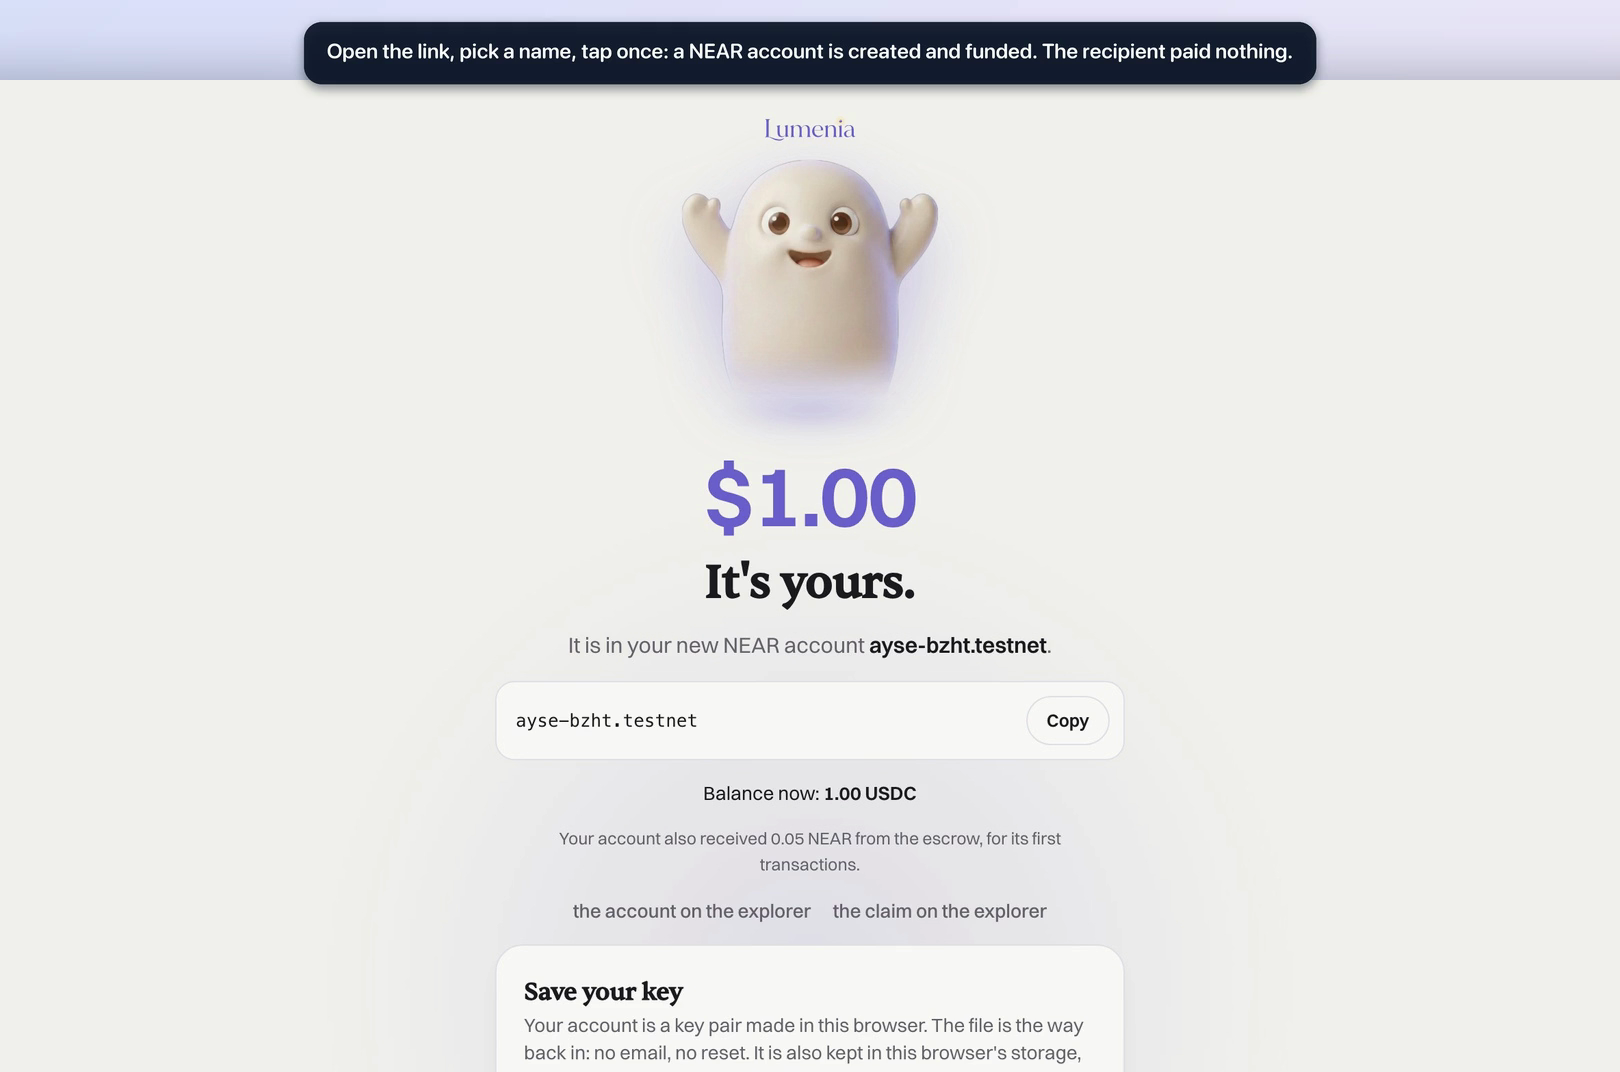
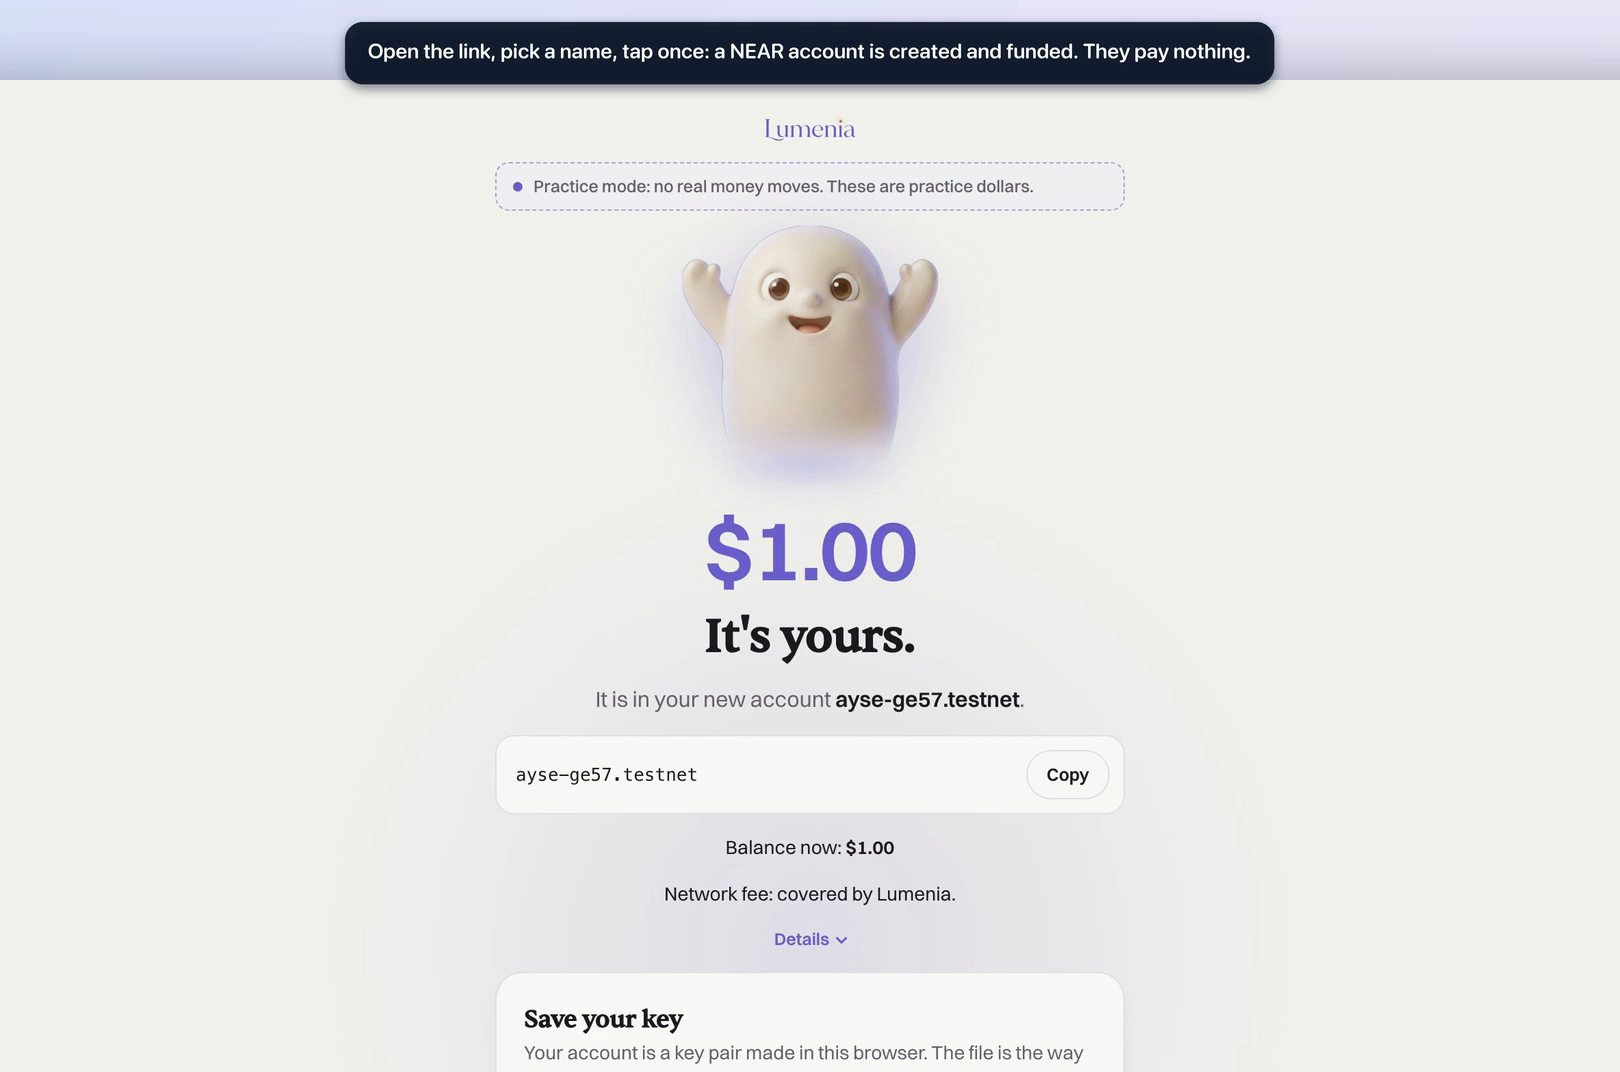
docs(near): the demo video re-shot on the live chain-neutral screens (80 s, then the attack log and the mainnet proof), its take's three transactions in the proof table, new claim and ledger stills

diff --git a/NEAR.md b/NEAR.md
@@ -1,7 +1,7 @@
 # Lumenia on NEAR: the NEAR rail, for judges and reviewers
 
 - **What:** a dollar link for someone who has nothing. At the claim the escrow creates the recipient's NEAR account, funds it with USDC and pays the fee, so the recipient pays no gas; the sender can take unclaimed money back after expiry (one tap). Built at NEAR HACKATHON 2026 (window 1 to 14 November 2026; this work: 11 to 14 November) inside [Lumenia's product repository](https://github.com/getlumenia/lumenia); only this NEAR rail is the submission.
-- **Try:** https://getlumenia.com/try/send, practice money, online through 30 November 2026; links open on [/claim](https://getlumenia.com/claim), the public ledger is [/ledger](https://getlumenia.com/ledger), the per-network table [/developers](https://getlumenia.com/developers). [Demo video](https://lumenia-media.avakit.workers.dev/demo.mp4), 60 seconds ([16:9 copy](https://lumenia-media.avakit.workers.dev/demo-720p.mp4)).
+- **Try:** https://getlumenia.com/try/send, practice money, online through 30 November 2026; links open on [/claim](https://getlumenia.com/claim), the public ledger is [/ledger](https://getlumenia.com/ledger), the per-network table [/developers](https://getlumenia.com/developers). [Demo video](https://lumenia-media.avakit.workers.dev/demo.mp4), 80 seconds: one live take on these screens, then the attack log and the mainnet proof ([16:9 copy](https://lumenia-media.avakit.workers.dev/demo-1080p.mp4)).
 - **Check:** `pnpm install --frozen-lockfile && pnpm near:verify`, no key needed (see "Run it yourself").
 - **Real:** the escrow [`lumenia-near.testnet`](https://testnet.nearblocks.io/address/lumenia-near.testnet), the screens, the relayer, the agent tools and one delivered Agent Market test job; hashes under "Proof".
 - **Testnet:** all of that, with Circle's testnet USDC. No audit is claimed.
@@ -67,14 +67,14 @@ Every path ran against `lumenia-near.testnet` with Circle's testnet USDC; open a
 
 | What | Transaction | Result |
 |---|---|---|
-| The demo video's take on the product screens: send, claim into the new account ayse-bzht.testnet, pay 0.25 USDC forward through the sponsor relayer (03:35 UTC) | AcYDkG9vYvzZLTtqTtFE3FvtFAi6hUn6NjhSNaew2ouV, 5mXtmnogZmQEP2HajYS4QWbGbg8QMUSzj9oC4pb8B3FA, 8YhoQMg6QCiTjhfrPs9b8eRGQ49XiW5CuYfvkBjMe4Ri | created with 1 USDC and 0.05 NEAR; after paying forward it holds 0.75 USDC and still 0.05 NEAR |
+| The demo video's take on the live site: a practice link made by the sponsor, claimed into the new account ayse-ge57.testnet, 0.25 USDC paid forward through the relayer (23:59 UTC) | 7EeSYWuqB8XQCsD4XpkhnRVLfLLZMHM6ccrawTKQKjf7, 6SXoxCFjfMa2V1iGd6EjSQHAsz3MD4qeKsoAdVHKThLB, rXb8FRSVzKadTsQXWmzd1D9GffXsopfGXyf6xYzSKaK | created with 1 USDC and 0.05 NEAR; after paying forward it holds 0.75 USDC and still 0.05 NEAR |
 | Contract script: create a 1 USDC link, then claim it with the link key into a fresh account | 4pV1q11f7UXLooG9cA3t1HBSFm9B4pYnUWYxr3gEgZAD, FhL77xssNU1P57uCcuC4DiDSaU17BFNUPfcceLn3dEgu | drop Open for link key ed25519:FTbxAZN3..., then account 880115ec...93a1 created with 1 USDC and 0.05 NEAR; drop Claimed |
 | Agent (MCP CLI) pays three people in one transaction | EpJn7vmaAvqexTf3JDBoGsjMbYKsyHmgs2NbFvTcAJtW | 3 links (1.00, 1.50, 1.10 USDC), one receipt each |
 | NEAR Agent Market test job 94912e5d ("For agents") | 8NXQ2YXWNTyihMueGHvbJ6ceR1Qjft8M51Ce4u2MCaHf | two Open 0.25 USDC links, funded in one transaction |
 | The relayer inside Lumenia's sponsor service, `/near/relay` (02:42 UTC) | A3jr4UJWjrNeahjYJNvX6CRbfWYw7BZTwc8Yweh2QiSm | 0.10 USDC link created; an immediate second request was refused with 429 (10-second cooldown) |
 
 <details>
-<summary>Five more rows: the web client's create and claim, an agent paying one person, the first relayed pay-forward, an earlier take of the demo video</summary>
+<summary>Six more rows: the web client's create and claim, an agent paying one person, the first relayed pay-forward, two earlier takes of the demo video</summary>
 
 | What | Transaction | Result |
 |---|---|---|
@@ -82,6 +82,7 @@ Every path ran against `lumenia-near.testnet` with Circle's testnet USDC; open a
 | Web script: claim it into a fresh account | BJEij829uNAZtaUAqa31Jc2yc7vq3oDjqaVizmnHckBH | account 2315f930...9cb7 holds 1 USDC; drop Claimed |
 | Agent (MCP CLI) pays one person, receipt written | 2bszj9H4dfsX6igqqHzgK6sPRChUXUwVkoqEiiZfDc8K | 1 USDC link, receipt rcpt_2fd21205... |
 | Pay forward through the relayer (sender signs, relayer pays the fee) | DgHQfQaxWMWzKmkwfcswBWV8NfqWyt5FvVKGAe3e3pBL | 0.10 USDC link created; relayer outcome "success" |
+| An earlier take of the demo video, on the screens before the chain-neutral pass: send, claim into ayse-bzht.testnet, pay 0.25 USDC forward through the sponsor relayer (03:35 UTC) | AcYDkG9vYvzZLTtqTtFE3FvtFAi6hUn6NjhSNaew2ouV, 5mXtmnogZmQEP2HajYS4QWbGbg8QMUSzj9oC4pb8B3FA, 8YhoQMg6QCiTjhfrPs9b8eRGQ49XiW5CuYfvkBjMe4Ri | created with 1 USDC and 0.05 NEAR; after paying forward it holds 0.75 USDC and still 0.05 NEAR |
 | An earlier take of the demo video: send, claim into ayse-m48q.testnet, pay 0.25 USDC forward (01:20 UTC) | 3Uv9rHsKn57RkMLcWLntjUh9cN86Na7WFPmXGGWm4cm6, 5MR6FCqGTGRoGugQNyNEf8W9NfUb7PPnxnHPiQn8srYZ, 2gbd1yNWTmsSSgPhHL4U4bK8tM1bPP59srRib4X6NthR | created with 1 USDC; the pay-forward link was created with the relayer paying the fee, and the account holds 0.75 USDC and 0.05 NEAR |
 
 </details>

diff --git a/README.md b/README.md
@@ -18,7 +18,7 @@
 
 **What it is, in one minute.** You send ten dollars as a link to someone with no wallet, no NEAR and no app. They open it in any browser, pick a name and tap once: a NEAR account with that name is created, funded with USDC, and they pay nothing. They can take the money to an account they already have, or to another chain, instead. If nobody opens it, you take the money back after expiry with one tap. An AI agent can be the sender too: one tool call returns a link and a receipt, and people or other agents can hire that service on NEAR Agent Market.
 
-**Try it** (practice money on NEAR testnet, nothing to install): https://getlumenia.com/try/send -> "Use the shared practice balance" -> Send -> open the link in a private window -> type a name -> "Create my account and claim $1.00". The money lands in a brand-new account; the network appears only under Details. [Demo video](https://lumenia-media.avakit.workers.dev/demo.mp4), 60 seconds, one live take on these screens ([16:9 copy](https://lumenia-media.avakit.workers.dev/demo-720p.mp4)).
+**Try it** (practice money on NEAR testnet, nothing to install): https://getlumenia.com/try/send -> "Use the shared practice balance" -> Send -> open the link in a private window -> type a name -> "Create my account and claim $1.00". The money lands in a brand-new account; the network appears only under Details. [Demo video](https://lumenia-media.avakit.workers.dev/demo.mp4), 80 seconds: one live take on these screens, then the attack log and the mainnet proof ([16:9 copy](https://lumenia-media.avakit.workers.dev/demo-1080p.mp4)).
 
 **Where the NEAR work lives:**
 
